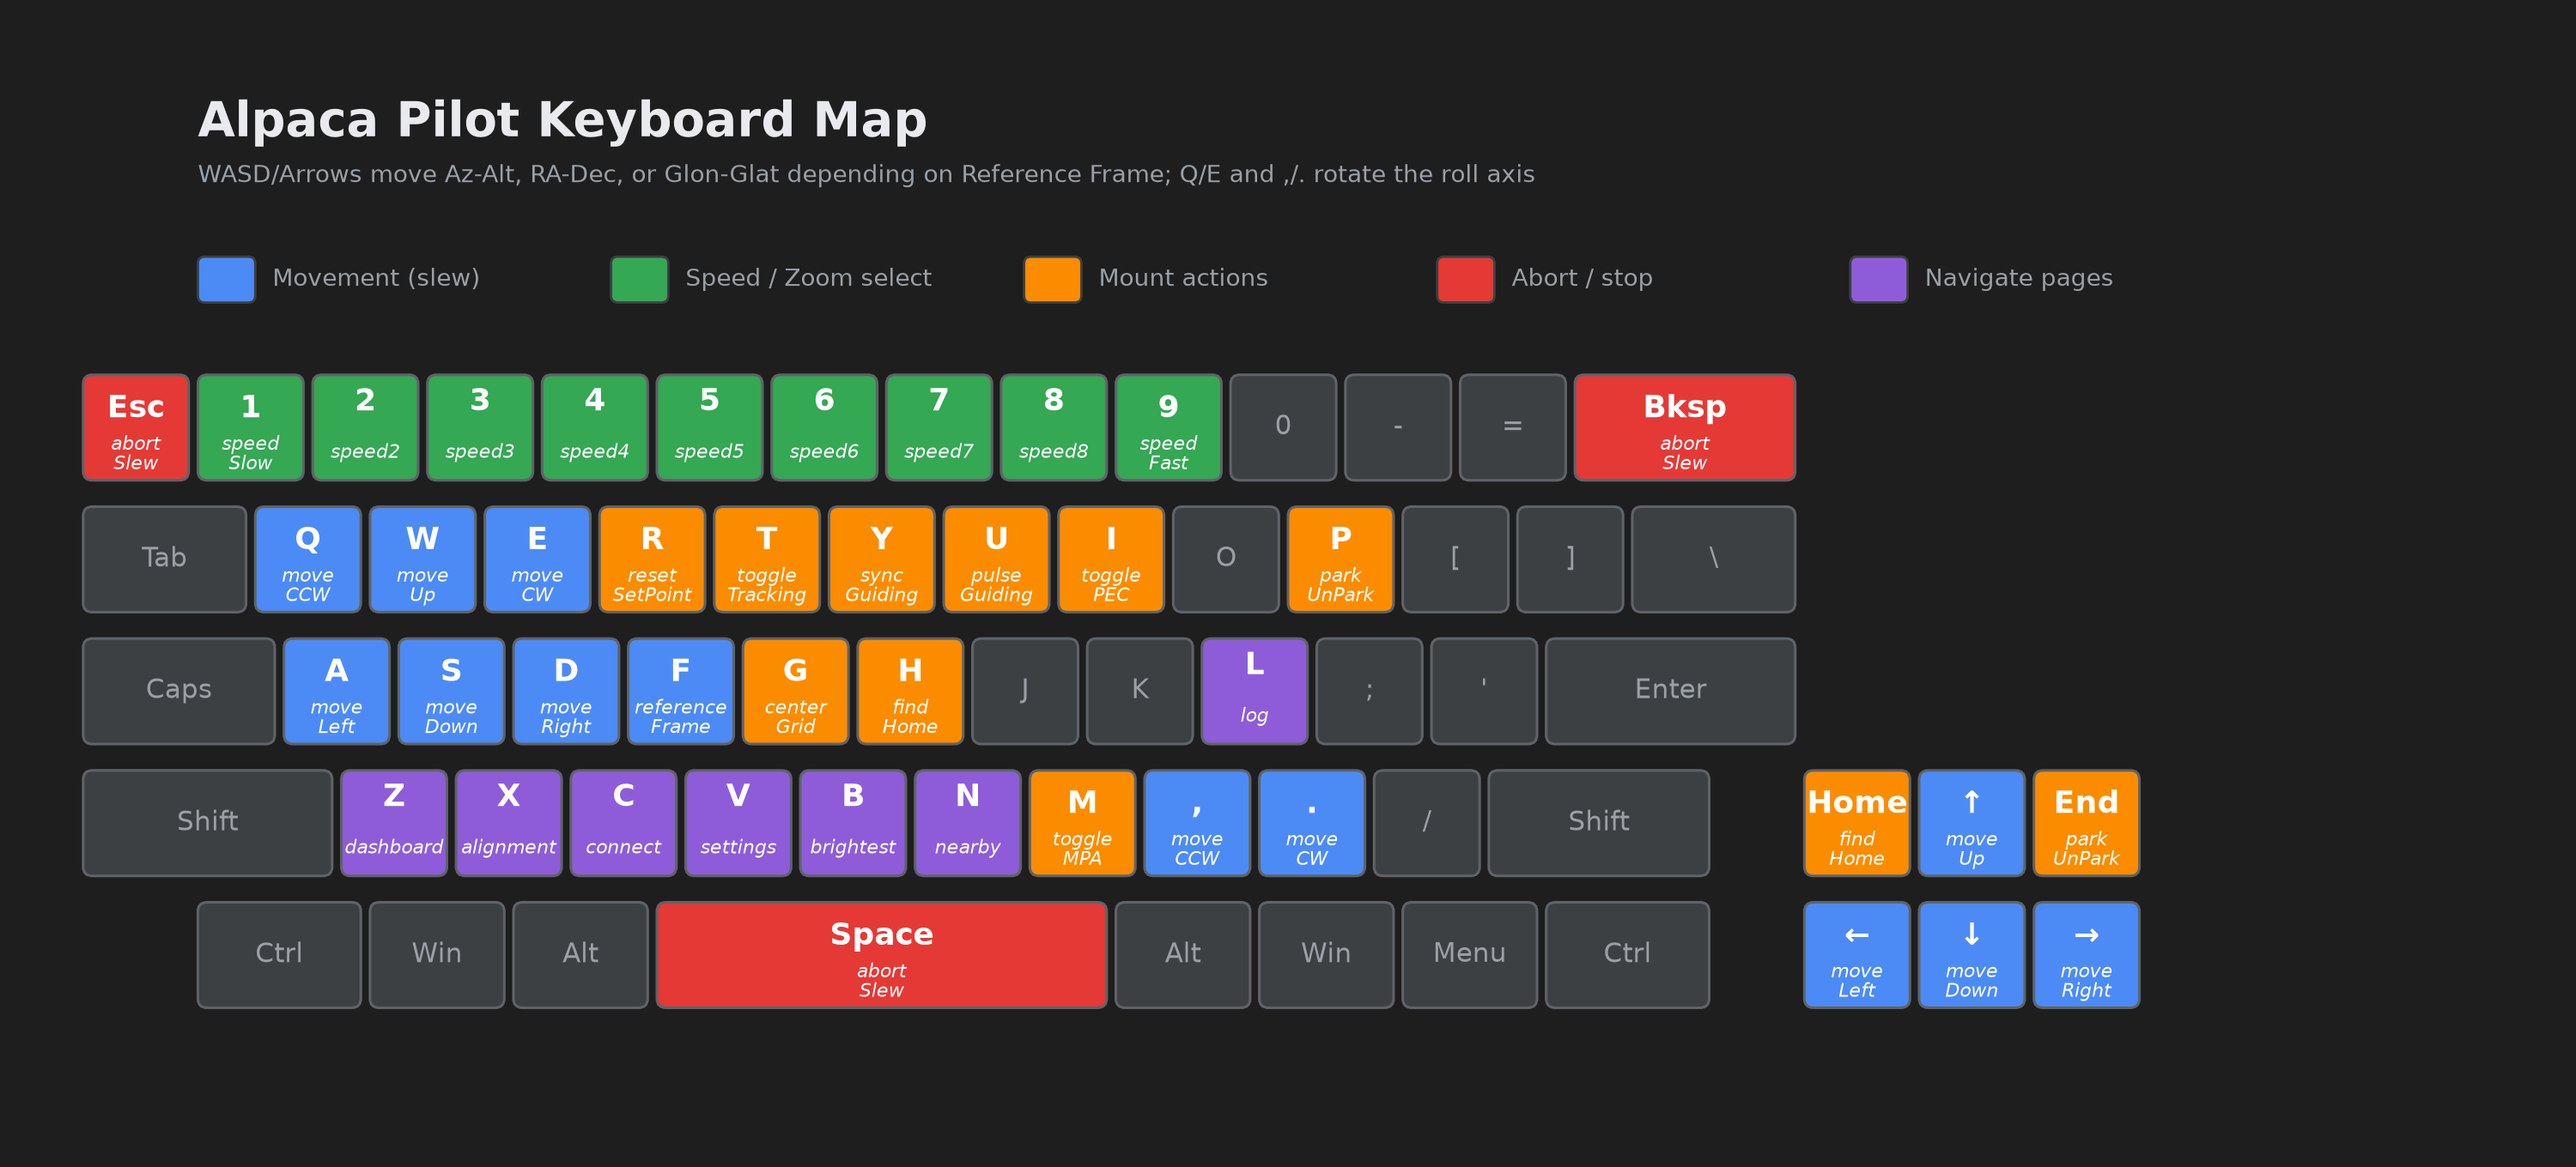
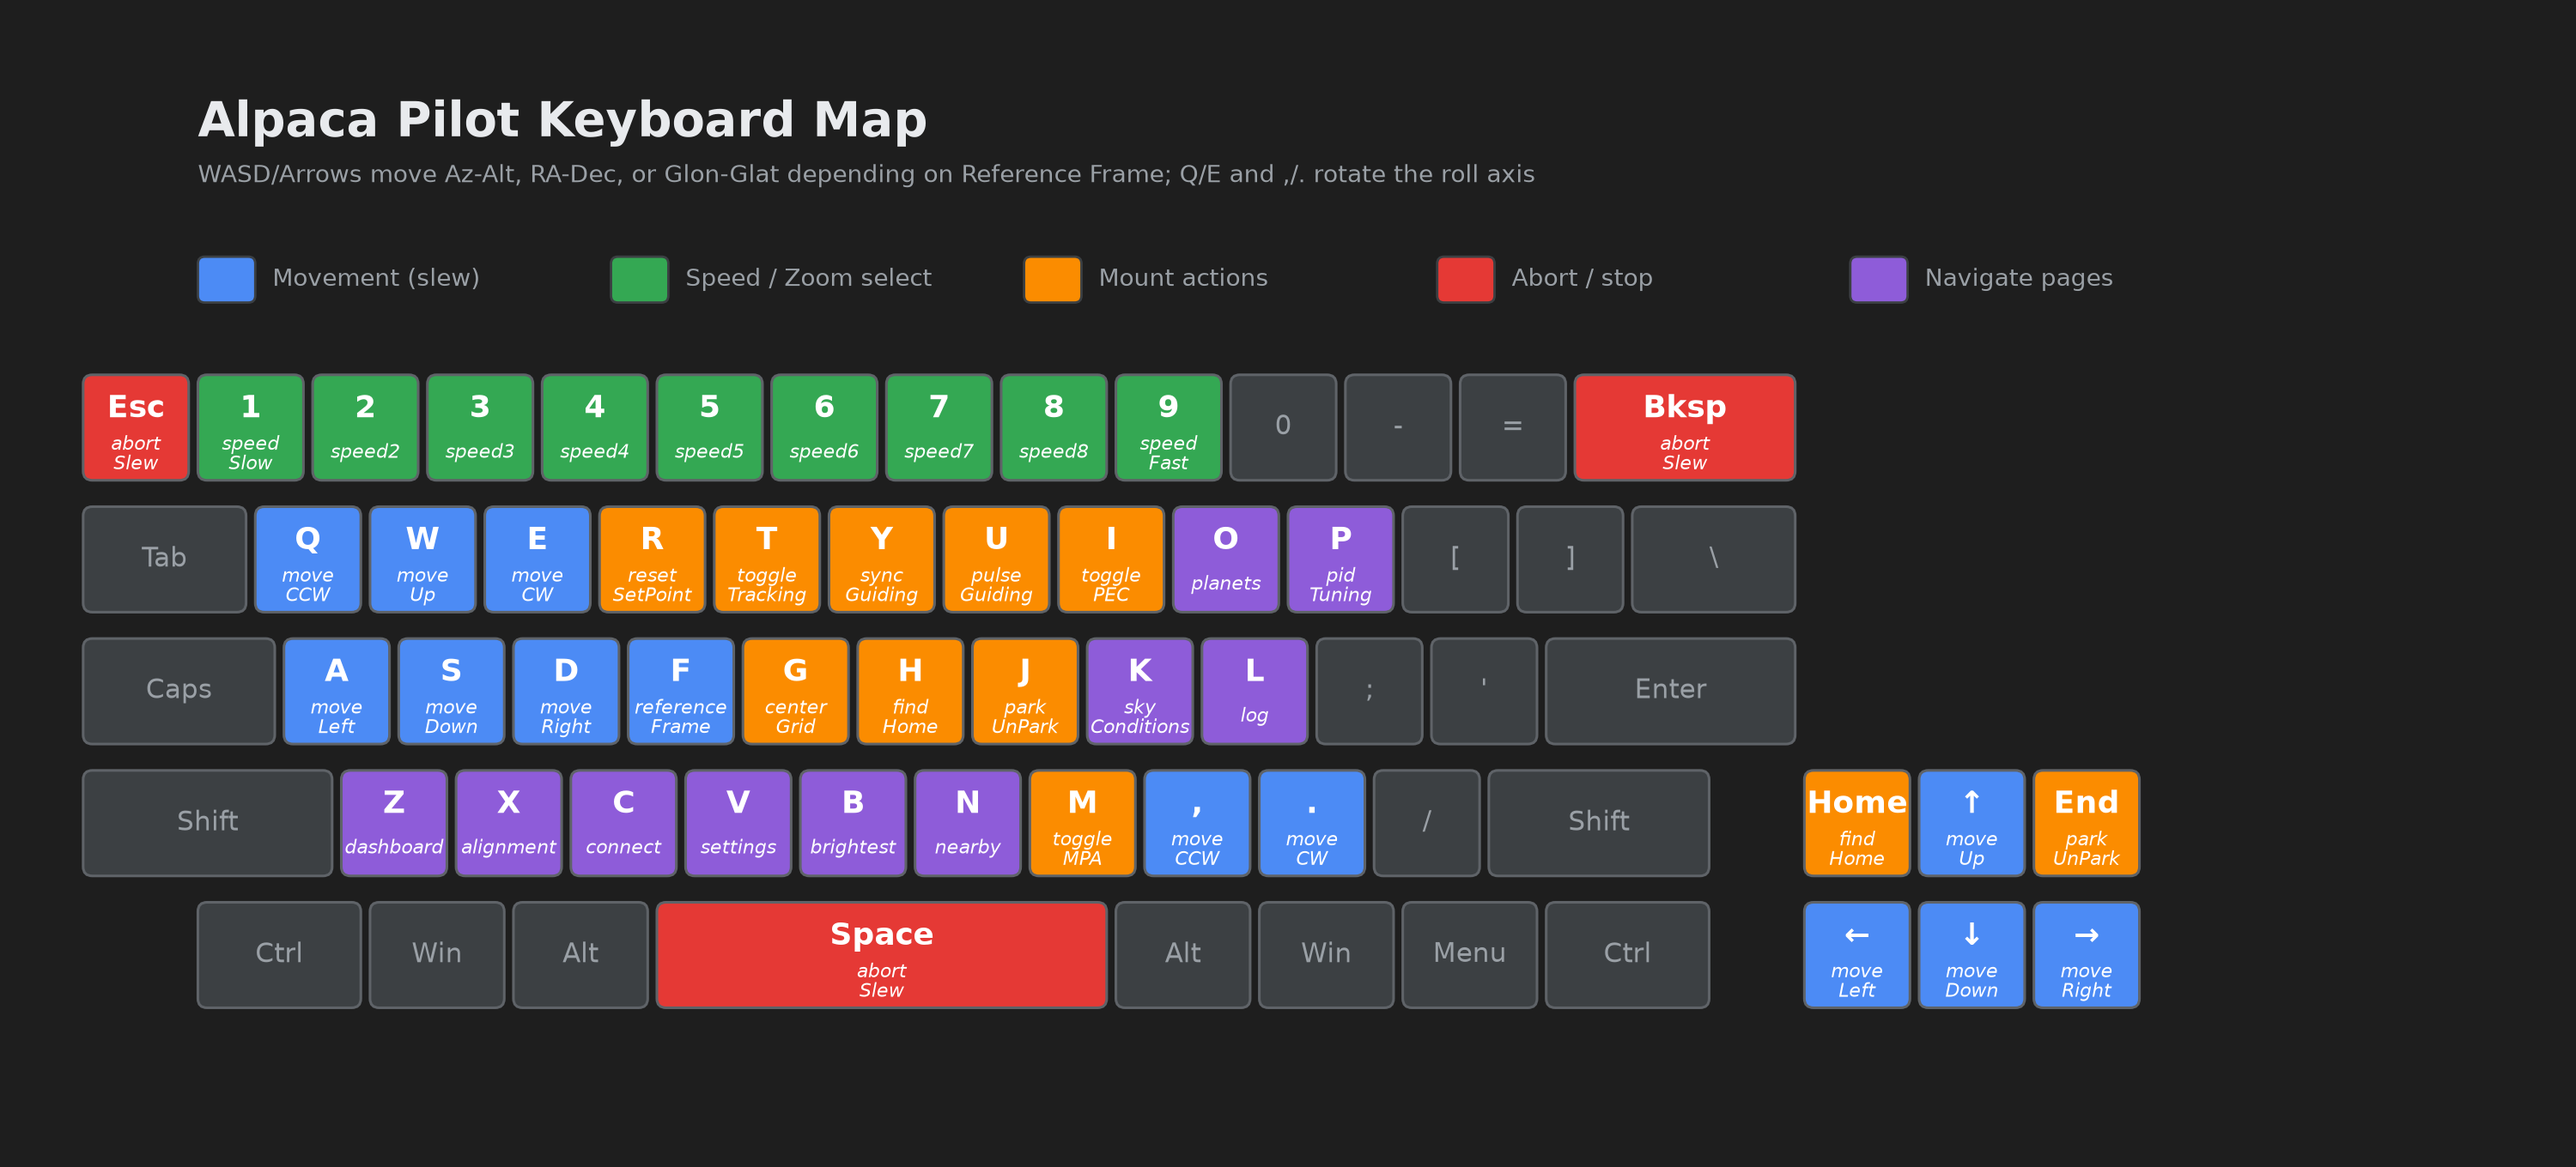
fix(keymap): final map hopefully

Changed region(s): [[0.372, 0.4324, 0.558, 0.6485]]

diff --git a/pilot/src/composables/useKeyMap.ts b/pilot/src/composables/useKeyMap.ts
@@ -34,7 +34,6 @@ export function useKeyMap(fallback: KeyMap = defaultKeyMap) {
 }
 
 const defaultKeyMap: KeyMap = {
-
   'ArrowLeft': 'moveLeft',
   'ArrowRight': 'moveRight',
   'ArrowUp': 'moveUp',
@@ -56,26 +55,29 @@ const defaultKeyMap: KeyMap = {
   '7': 'speed7',
   '8': 'speed8',
   '9': 'speedFast',
+  'r': 'resetSetPoint',
+  't': 'toggleTracking',
+  'y': 'syncGuiding',
+  'u': 'pulseGuiding',    
+  'i': 'togglePEC',
+  'o': 'planets',
+  'p': 'pidTuning',
   'f': 'referenceFrame',
   'g': 'centerGrid',
   'h': 'findHome',
+  'j': 'parkUnPark',
+  'k': 'skyConditions',
   'l': 'log',
-  'r': 'resetSetPoint',
-  't': 'toggleTracking',
-  'm': 'toggleMPA',
-  'i': 'togglePEC',
-  'y': 'syncGuiding',
-  'u': 'pulseGuiding',    
-  'p': 'parkUnPark',
-  'Escape': 'abortSlew',
-  'Backspace': 'abortSlew',
-  ' ': 'abortSlew',
-  'Home': 'findHome',
-  'End': 'parkUnPark',
   'z': 'dashboard',
   'x': 'alignment',
   'c': 'connect',
   'v': 'settings',
   'b': 'brightest',
   'n': 'nearby',
+  'm': 'toggleMPA',
+  ' ': 'abortSlew',
+  'Escape': 'abortSlew',
+  'Backspace': 'abortSlew',
+  'Home': 'findHome',
+  'End': 'parkUnPark',
 };

diff --git a/pilot/src/composables/useActionRegistry.ts b/pilot/src/composables/useActionRegistry.ts
@@ -165,6 +165,10 @@ export function useActionRegistry(): ActionRegistry {
         type: 'trigger',
         onFire: async () => { await router.push('/sync'); },
       },
+      pidTuning: {
+        type: 'trigger',
+        onFire: async () => { await router.push('/pidall'); },
+      },
       log: {
         type: 'trigger',
         onFire: async () => { await router.push({ path: '/log' }); },
@@ -180,6 +184,14 @@ export function useActionRegistry(): ActionRegistry {
       moons: {
         type: 'trigger',
         onFire: async () => { await router.push({ path: '/catalog', query: { C1:5 } }); },
+      },
+      planets: {
+        type: 'trigger',
+        onFire: async () => { await router.push({ path: '/catalog', query: { C1:4 } }); },
+      },
+      skyConditions: {
+        type: 'trigger',
+        onFire: async () => { await router.push({ path: '/catalog', query: { C1:11 } }); },
       },
       togglePEC: {
         type: 'trigger',
